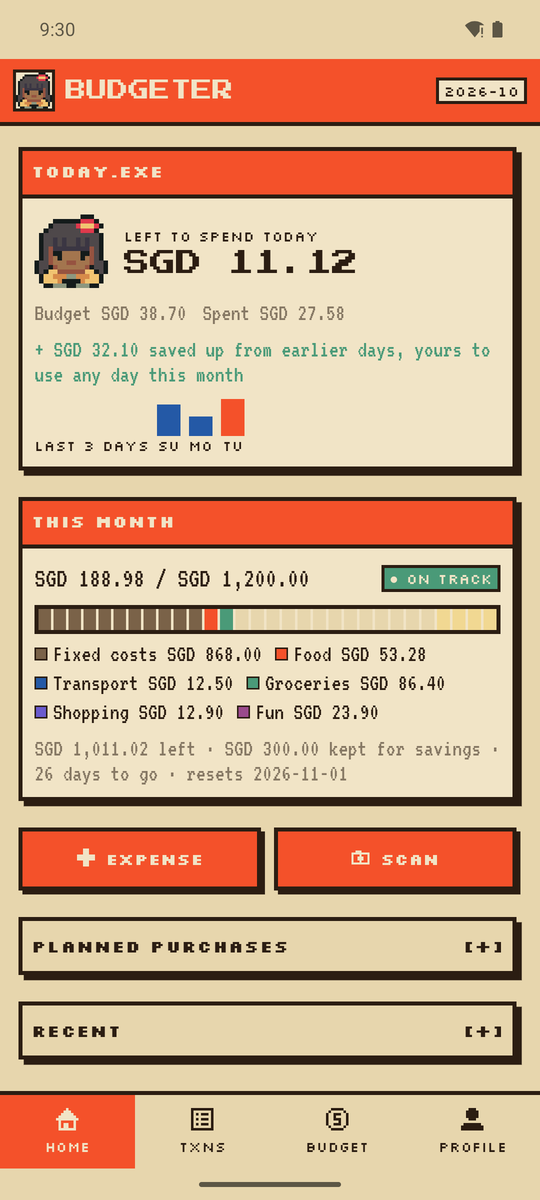
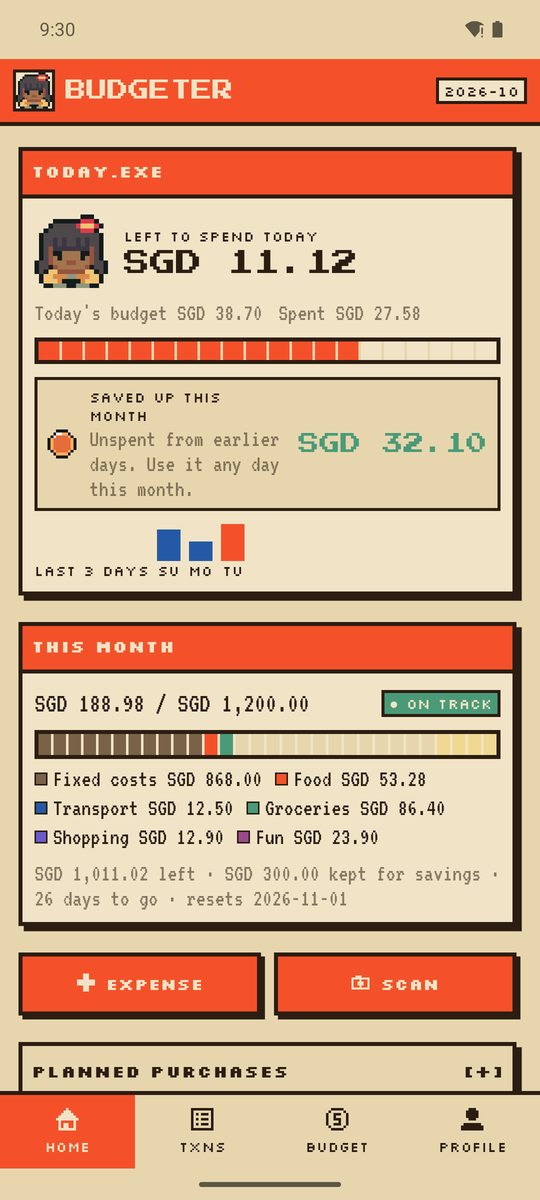
1.4.3: Saved up this month panel and today's spending bar on Home; 'Today's budget' label

diff --git a/app/src/main/java/com/nyxulrix/budgeter/ui/HomeScreen.kt b/app/src/main/java/com/nyxulrix/budgeter/ui/HomeScreen.kt
@@ -8,6 +8,7 @@ import androidx.compose.foundation.layout.Row
 import androidx.compose.foundation.layout.fillMaxWidth
 import androidx.compose.foundation.layout.height
 import androidx.compose.foundation.layout.width
+import androidx.compose.foundation.layout.padding
 import androidx.compose.material3.Text
 import androidx.compose.runtime.Composable
 import androidx.compose.runtime.getValue
@@ -49,13 +50,6 @@ fun paceColor(p: Pace): Color = when (p) {
 /** Brown normally, orange once today's budget is used and you're into saved-up money, red past that too. */
 fun dayColor(d: com.nyxulrix.budgeter.core.Day) = when { d.remaining < 0 -> Px.red; d.dailyLeft < 0 -> Px.orange; else -> Px.brown }
 
-/** The small line about money saved up from earlier days, or null when there's none. */
-fun savedUpLine(d: com.nyxulrix.budgeter.core.Day, cur: String): String? = when {
-    d.bonus <= 0 -> null
-    d.dailyLeft < 0 -> "Using saved-up money: ${money(d.bonusLeft, cur)} of ${money(d.bonus, cur)} left"
-    else -> "+ ${money(d.bonus, cur)} saved up from earlier days, yours to use any day this month"
-}
-
 fun paceSymbol(p: Pace) = when (p) { Pace.ON_TRACK -> "●"; Pace.SLIGHTLY_OVER -> "▲"; Pace.OVER -> "✖" }
 
 @Composable
@@ -78,10 +72,14 @@ fun HomeScreen(st: AppState) {
                 }
             }
             Row(horizontalArrangement = Arrangement.spacedBy(12.dp)) {
-                Small("Budget ${money(snap.day.budget, cur)}")
+                Small("Today's budget ${money(snap.day.budget, cur)}")
                 Small("Spent ${money(snap.day.spent, cur)}")
             }
-            savedUpLine(snap.day, cur)?.let { Small(it, color = if (snap.day.dailyLeft < 0) Px.orange else Px.green) }
+            PixelProgress(
+                if (snap.day.budget > 0) snap.day.spent.toFloat() / snap.day.budget else if (snap.day.spent > 0) 1f else 0f,
+                color = when { snap.day.remaining < 0 -> Px.red; snap.day.dailyLeft < 0 -> Px.yellow; else -> Px.orange },
+            )
+            SavedUp(snap.day, cur)
             Sparkline(st, now)
         }
 
@@ -138,6 +136,29 @@ fun HomeScreen(st: AppState) {
     }
 
     reserving?.let { p -> ReserveDialog(st, p) { reserving = null } }
+}
+
+/**
+ * Money saved up this month: what earlier days left unspent, added up day by day, minus anything already
+ * dipped into today. It can be spent any day this month; at month end it becomes savings.
+ */
+@Composable
+private fun SavedUp(day: com.nyxulrix.budgeter.core.Day, cur: String) {
+    Row(
+        Modifier.fillMaxWidth().frame(Px.cream, width = 2.dp).padding(horizontal = 10.dp, vertical = 8.dp),
+        verticalAlignment = Alignment.CenterVertically, horizontalArrangement = Arrangement.spacedBy(10.dp),
+    ) {
+        Art(R.drawable.icon_coin, 22.dp)
+        Column(Modifier.weight(1f), verticalArrangement = Arrangement.spacedBy(2.dp)) {
+            Label("Saved up this month")
+            Small(when {
+                day.bonus <= 0 -> "Spend less than today's budget and the rest builds up here."
+                day.dailyLeft < 0 -> "Using it today: ${money(day.bonus - day.bonusLeft, cur)} of ${money(day.bonus, cur)}."
+                else -> "Unspent from earlier days. Use it any day this month."
+            })
+        }
+        Text(money(day.bonusLeft, cur), style = Type.number, color = if (day.bonusLeft > 0) Px.green else Px.muted)
+    }
 }
 
 /** Spent per day for the last 3 days as small bars. */
